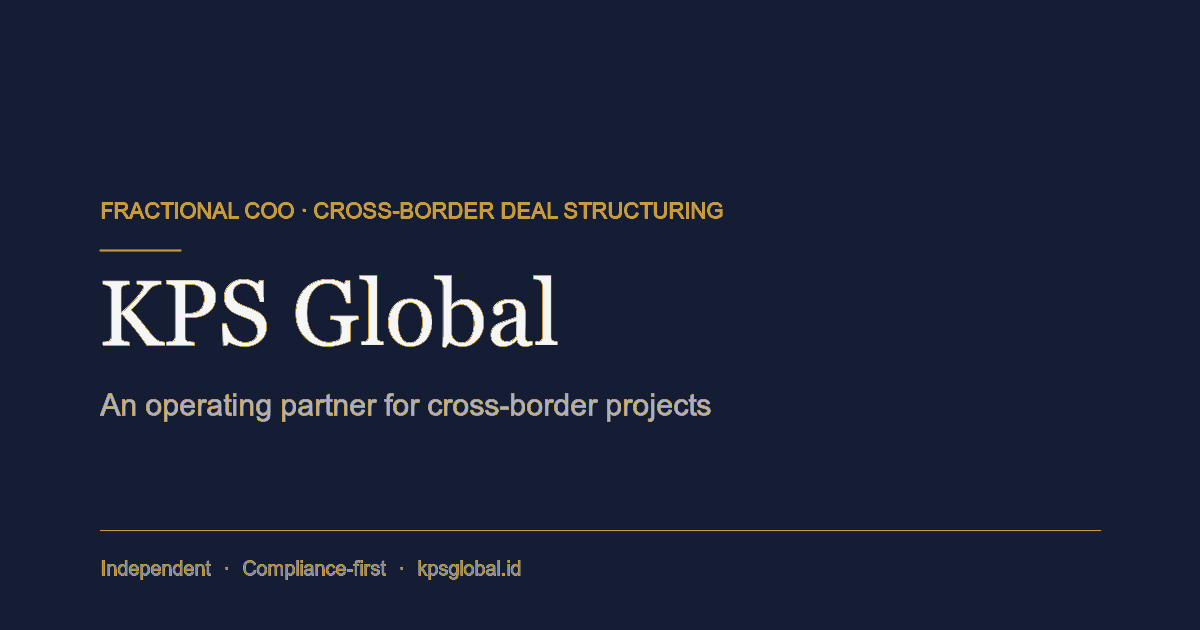
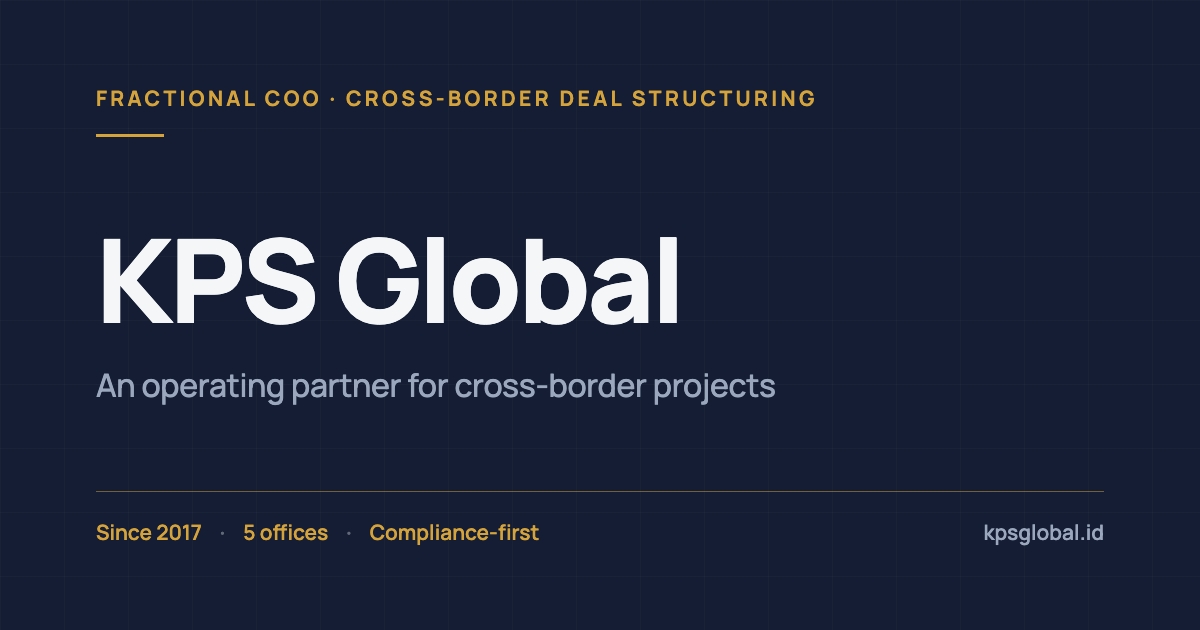
i18n+seo: localise office cities/markets (RU/ZH); refresh OG image
Office cities, countries and market chips now resolve through geo.*/city.*
translation keys, so RU/ZH render localname (Санья/三亚, Москва/莫斯科 …).
Regenerate public/og-image.png in the new Manrope wordmark to match the
advisory redesign (was still set in the old Playfair serif).

diff --git a/src/i18n/translations.ts b/src/i18n/translations.ts
@@ -123,6 +123,20 @@ export const translations: Record<Language, Record<string, string>> = {
     'sectors.officesLabel': 'Offices',
     'sectors.marketsLabel': 'Markets we serve',
     'sectors.entitiesNote': 'Registered entities in China, Indonesia, Russia and the USA.',
+    'city.sanya': 'Sanya',
+    'city.denpasar': 'Denpasar',
+    'city.moscow': 'Moscow',
+    'city.chicago': 'Chicago',
+    'city.dubai': 'Dubai',
+    'geo.singapore': 'Singapore',
+    'geo.china': 'China',
+    'geo.hongkong': 'Hong Kong',
+    'geo.malaysia': 'Malaysia',
+    'geo.usa': 'USA',
+    'geo.uae': 'UAE',
+    'geo.india': 'India',
+    'geo.indonesia': 'Indonesia',
+    'geo.russia': 'Russia',
 
     // Governance & Compliance
     'governance.sectionLabel': 'Governance',
@@ -349,6 +363,20 @@ export const translations: Record<Language, Record<string, string>> = {
     'sectors.officesLabel': 'Офисы',
     'sectors.marketsLabel': 'Рынки, где мы работаем',
     'sectors.entitiesNote': 'Юридические лица в Китае, Индонезии, России и США.',
+    'city.sanya': 'Санья',
+    'city.denpasar': 'Денпасар',
+    'city.moscow': 'Москва',
+    'city.chicago': 'Чикаго',
+    'city.dubai': 'Дубай',
+    'geo.singapore': 'Сингапур',
+    'geo.china': 'Китай',
+    'geo.hongkong': 'Гонконг',
+    'geo.malaysia': 'Малайзия',
+    'geo.usa': 'США',
+    'geo.uae': 'ОАЭ',
+    'geo.india': 'Индия',
+    'geo.indonesia': 'Индонезия',
+    'geo.russia': 'Россия',
 
     // Governance
     'governance.sectionLabel': 'Управление и комплаенс',
@@ -575,6 +603,20 @@ export const translations: Record<Language, Record<string, string>> = {
     'sectors.officesLabel': '办公室',
     'sectors.marketsLabel': '服务市场',
     'sectors.entitiesNote': '在中国、印度尼西亚、俄罗斯与美国设有注册实体。',
+    'city.sanya': '三亚',
+    'city.denpasar': '登巴萨',
+    'city.moscow': '莫斯科',
+    'city.chicago': '芝加哥',
+    'city.dubai': '迪拜',
+    'geo.singapore': '新加坡',
+    'geo.china': '中国',
+    'geo.hongkong': '香港',
+    'geo.malaysia': '马来西亚',
+    'geo.usa': '美国',
+    'geo.uae': '阿联酋',
+    'geo.india': '印度',
+    'geo.indonesia': '印度尼西亚',
+    'geo.russia': '俄罗斯',
 
     // Governance
     'governance.sectionLabel': '治理与合规',

diff --git a/src/components/CapabilitiesSection.tsx b/src/components/CapabilitiesSection.tsx
@@ -4,14 +4,17 @@ import Reveal from '@/hooks/use-reveal';
 import { Layers, Globe } from 'lucide-react';
 
 const offices = [
-  { city: 'Sanya', country: 'China' },
-  { city: 'Denpasar', country: 'Indonesia' },
-  { city: 'Moscow', country: 'Russia' },
-  { city: 'Chicago', country: 'USA' },
-  { city: 'Dubai', country: 'UAE' },
+  { cityKey: 'city.sanya', countryKey: 'geo.china' },
+  { cityKey: 'city.denpasar', countryKey: 'geo.indonesia' },
+  { cityKey: 'city.moscow', countryKey: 'geo.russia' },
+  { cityKey: 'city.chicago', countryKey: 'geo.usa' },
+  { cityKey: 'city.dubai', countryKey: 'geo.uae' },
 ];
 
-const markets = ['Singapore', 'China', 'Hong Kong', 'Malaysia', 'USA', 'UAE', 'India', 'Indonesia'];
+const markets = [
+  'geo.singapore', 'geo.china', 'geo.hongkong', 'geo.malaysia',
+  'geo.usa', 'geo.uae', 'geo.india', 'geo.indonesia',
+];
 
 const CapabilitiesSection: React.FC = () => {
   const { t } = useLanguage();
@@ -57,9 +60,9 @@ const CapabilitiesSection: React.FC = () => {
             </span>
             <div className="grid grid-cols-2 sm:grid-cols-3 gap-x-6 gap-y-4">
               {offices.map((o) => (
-                <div key={o.city}>
-                  <div className="text-foreground font-semibold">{o.city}</div>
-                  <div className="text-xs text-muted-foreground uppercase tracking-wide">{o.country}</div>
+                <div key={o.cityKey}>
+                  <div className="text-foreground font-semibold">{t(o.cityKey)}</div>
+                  <div className="text-xs text-muted-foreground uppercase tracking-wide">{t(o.countryKey)}</div>
                 </div>
               ))}
             </div>
@@ -80,7 +83,7 @@ const CapabilitiesSection: React.FC = () => {
                 key={m}
                 className="px-3 py-1.5 text-sm text-foreground/80 border border-border rounded-sm bg-background"
               >
-                {m}
+                {t(m)}
               </span>
             ))}
           </div>

diff --git a/src/components/HeroSection.tsx b/src/components/HeroSection.tsx
@@ -5,7 +5,10 @@ import { ArrowRight } from 'lucide-react';
 const HeroSection: React.FC = () => {
   const { t } = useLanguage();
 
-  const markets = ['Singapore', 'China', 'Hong Kong', 'Malaysia', 'USA', 'UAE', 'India', 'Indonesia'];
+  const markets = [
+    'geo.singapore', 'geo.china', 'geo.hongkong', 'geo.malaysia',
+    'geo.usa', 'geo.uae', 'geo.india', 'geo.indonesia',
+  ];
 
   return (
     <section className="relative min-h-[92vh] flex items-center overflow-hidden border-b border-border">
@@ -70,7 +73,7 @@ const HeroSection: React.FC = () => {
           <div className="mt-4 flex flex-wrap gap-x-6 gap-y-2">
             {markets.map((m) => (
               <span key={m} className="text-sm text-foreground/70 font-medium">
-                {m}
+                {t(m)}
               </span>
             ))}
           </div>
